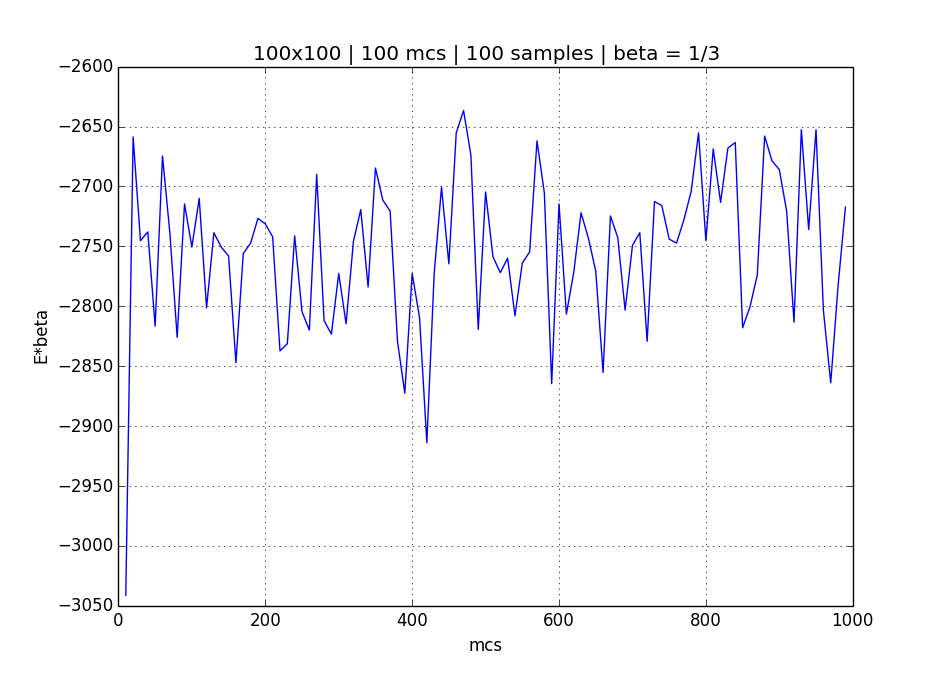
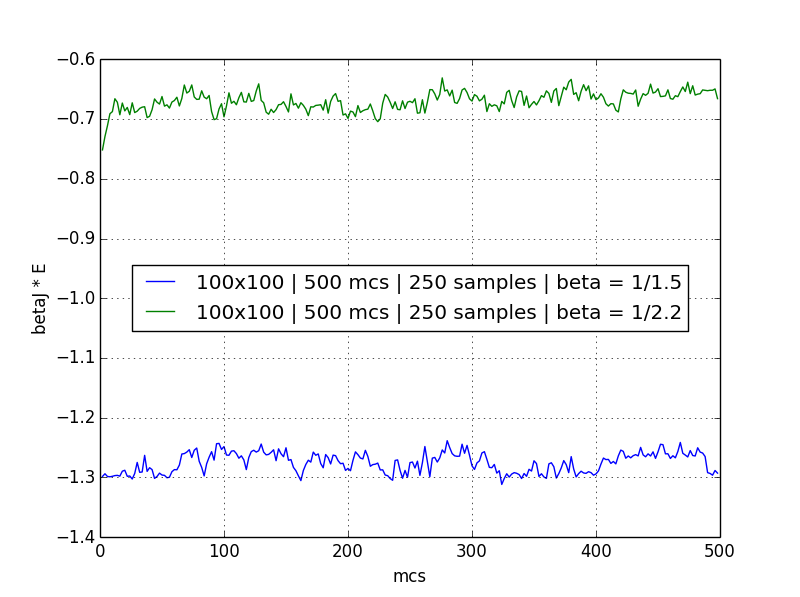
more functions

Changed region(s): [[0.0312, 0.0603, 0.9375, 0.9347], [0.2188, 0.7236, 0.75, 0.8141], [0.5, 0.9347, 0.5312, 0.995]]

diff --git a/sim/plot.py b/sim/plot.py
@@ -1,6 +1,10 @@
 import pylab
 
-list_of_files = [("data.txt", "data")]
+# list_of_files = [("data.txt", "100x100 | 100 mcs | 100 samples | beta = 1/4")]
+#                  ("data2.txt", "100x100 | 100 mcs | 100 samples | beta = 1/2.2")]
+
+list_of_files = [("data.txt",  "100x100 | 500 mcs | 250 samples | beta = 1/1.5"),
+                 ("data2.txt", "100x100 | 500 mcs | 250 samples | beta = 1/2.2")]
 
 datalist = [ ( pylab.loadtxt(filename), label ) for filename, label in list_of_files ]
 
@@ -8,9 +12,10 @@ for data, label in datalist:
     pylab.plot( data[:,0], data[:,1], label=label )
 
 # pylab.legend()
-pylab.title("100x100 | 100 mcs | 100 samples | beta = 1/3")
+# pylab.title("")
+pylab.legend(loc='center')
 pylab.xlabel("mcs")
-pylab.ylabel("E*beta")
+pylab.ylabel("betaJ * E")
 pylab.grid();
 
 pylab.show()

diff --git a/data/plot.py b/data/plot.py
@@ -1,6 +1,10 @@
 import pylab
 
-list_of_files = [("cv.txt", "data"),("cv2.txt", "data2")]
+# list_of_files = [("cv.txt",  "16x16 | 40 mcs | 5000 samples"),
+#                  ("cv2.txt", "32x32 | 30 mcs | 5000 samples")]
+
+list_of_files = [("m.txt",  "16x16 | 300 initial mcs | 30 mcs | 100 samples"),
+                 ("m2.txt", "100x100 | 150 initial mcs | 30 mcs | 50 samples")]
 
 datalist = [ ( pylab.loadtxt(filename), label ) for filename, label in list_of_files ]
 
@@ -8,9 +12,10 @@ for data, label in datalist:
     pylab.plot( data[:,0], data[:,1], label=label )
 
 #pylab.legend()
-pylab.title("16x16 | 40 mcs | 5000 samples")
+# pylab.title("")
 pylab.xlabel("kT/J")
-pylab.ylabel("C_v/(N*k)")
+pylab.ylabel("Average Magnetization Per Spin")
+pylab.legend()
 pylab.grid();
 
 pylab.show()
